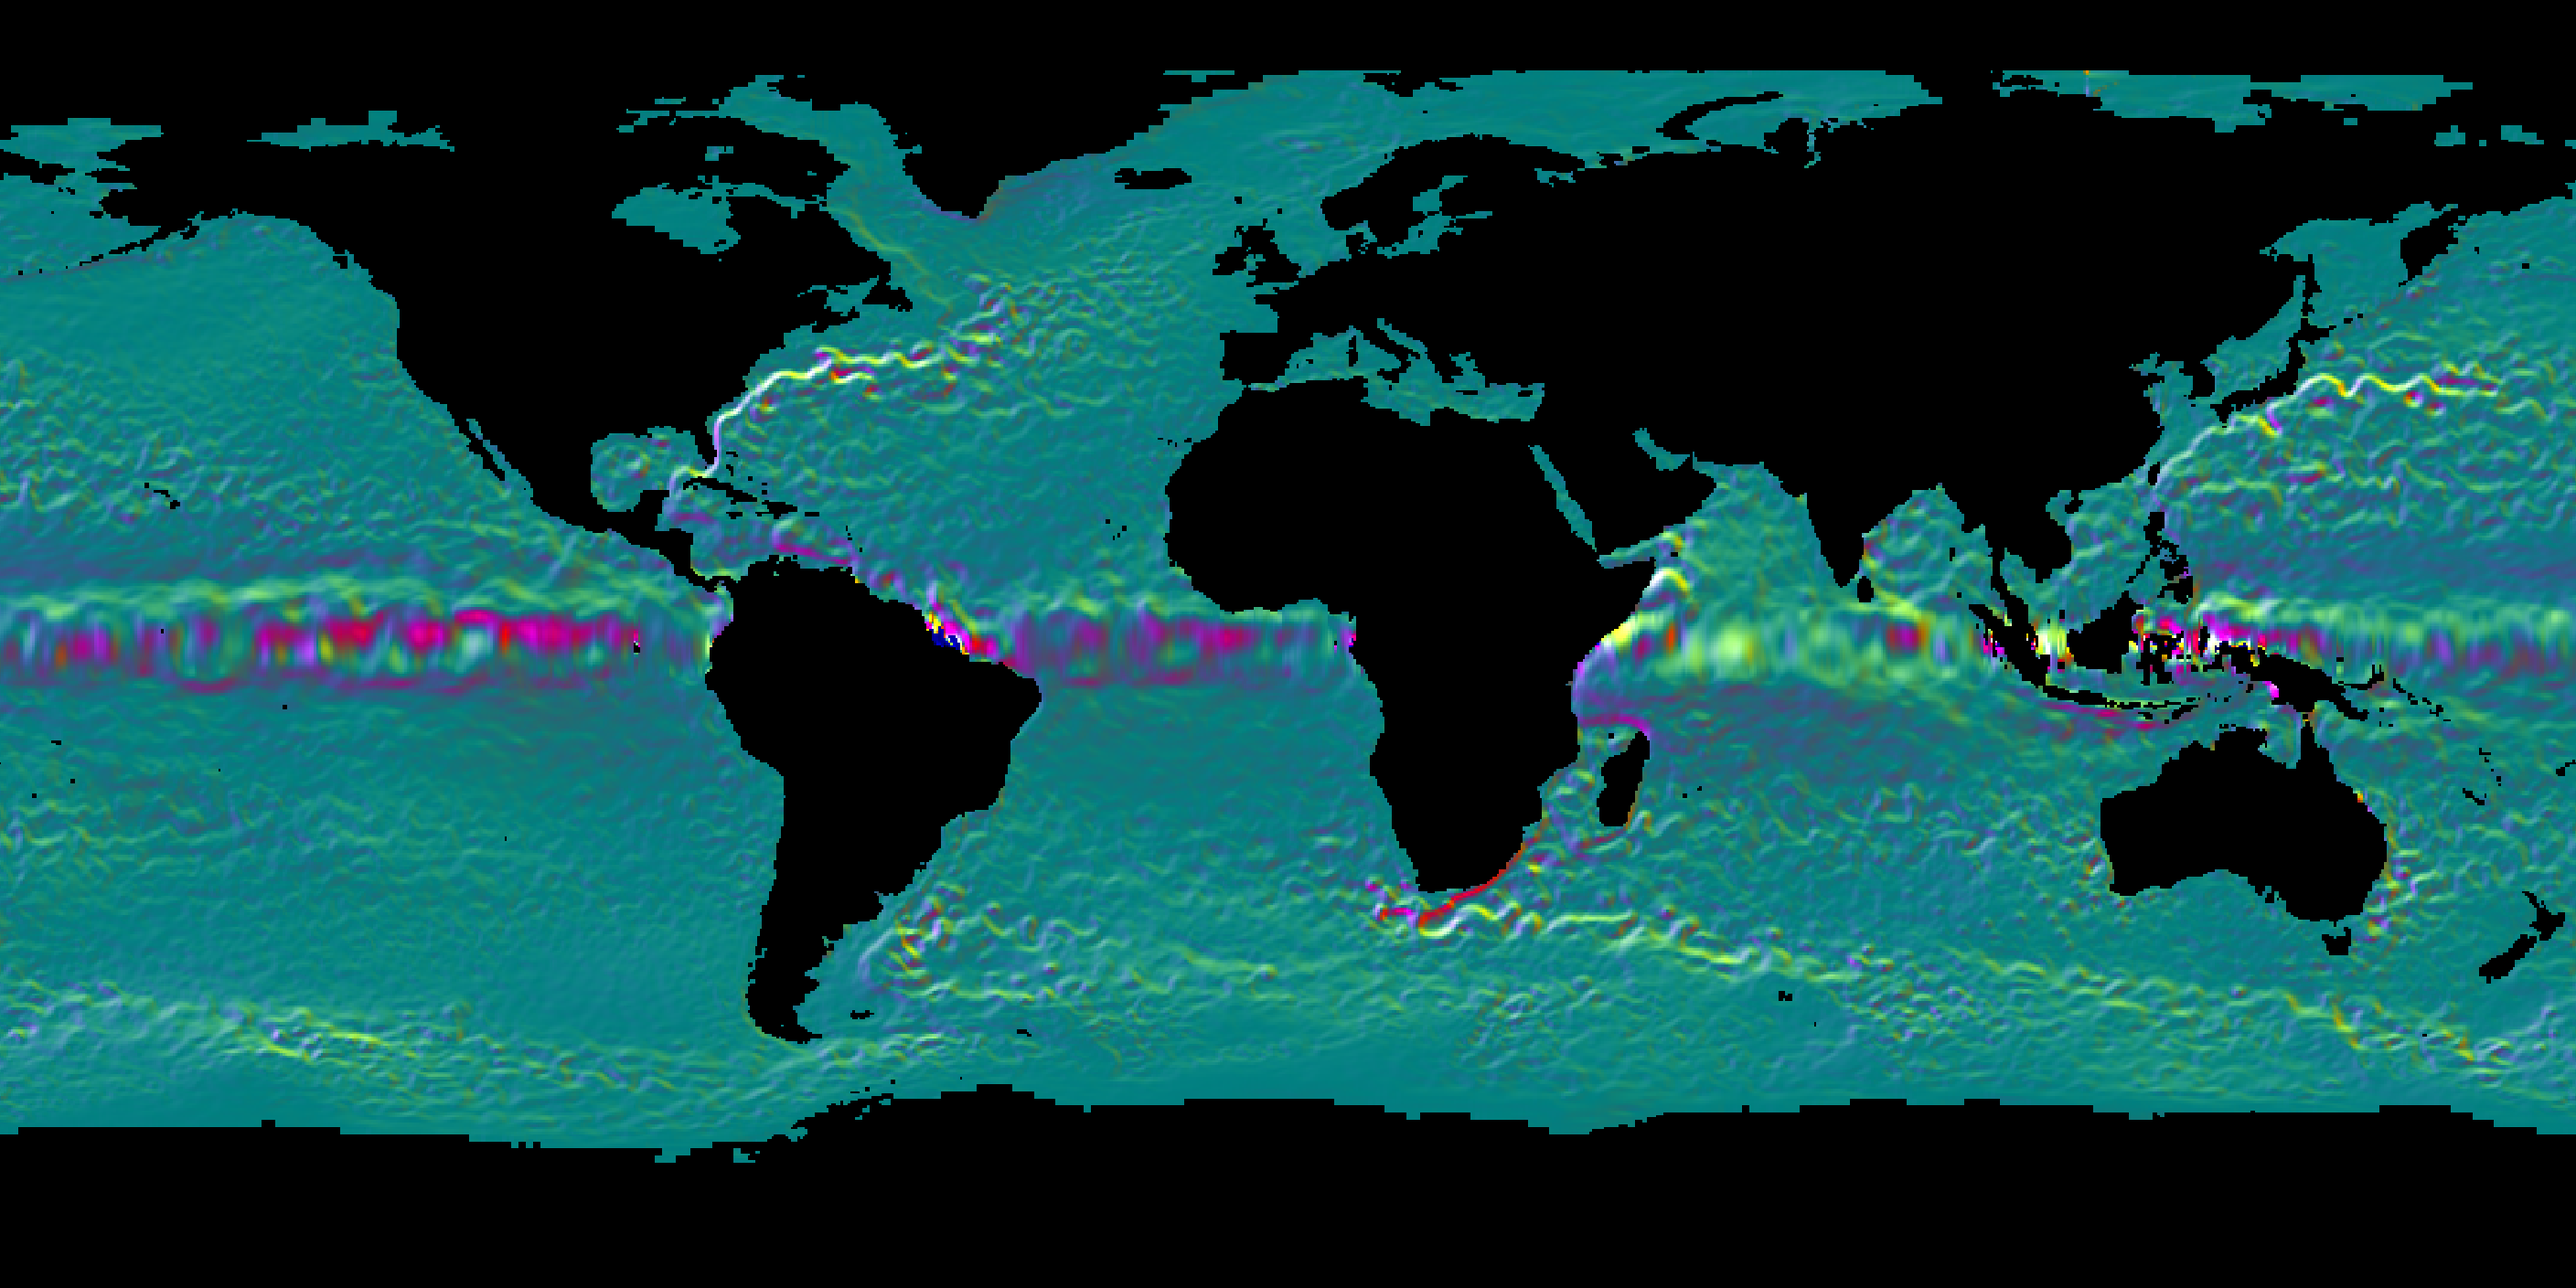
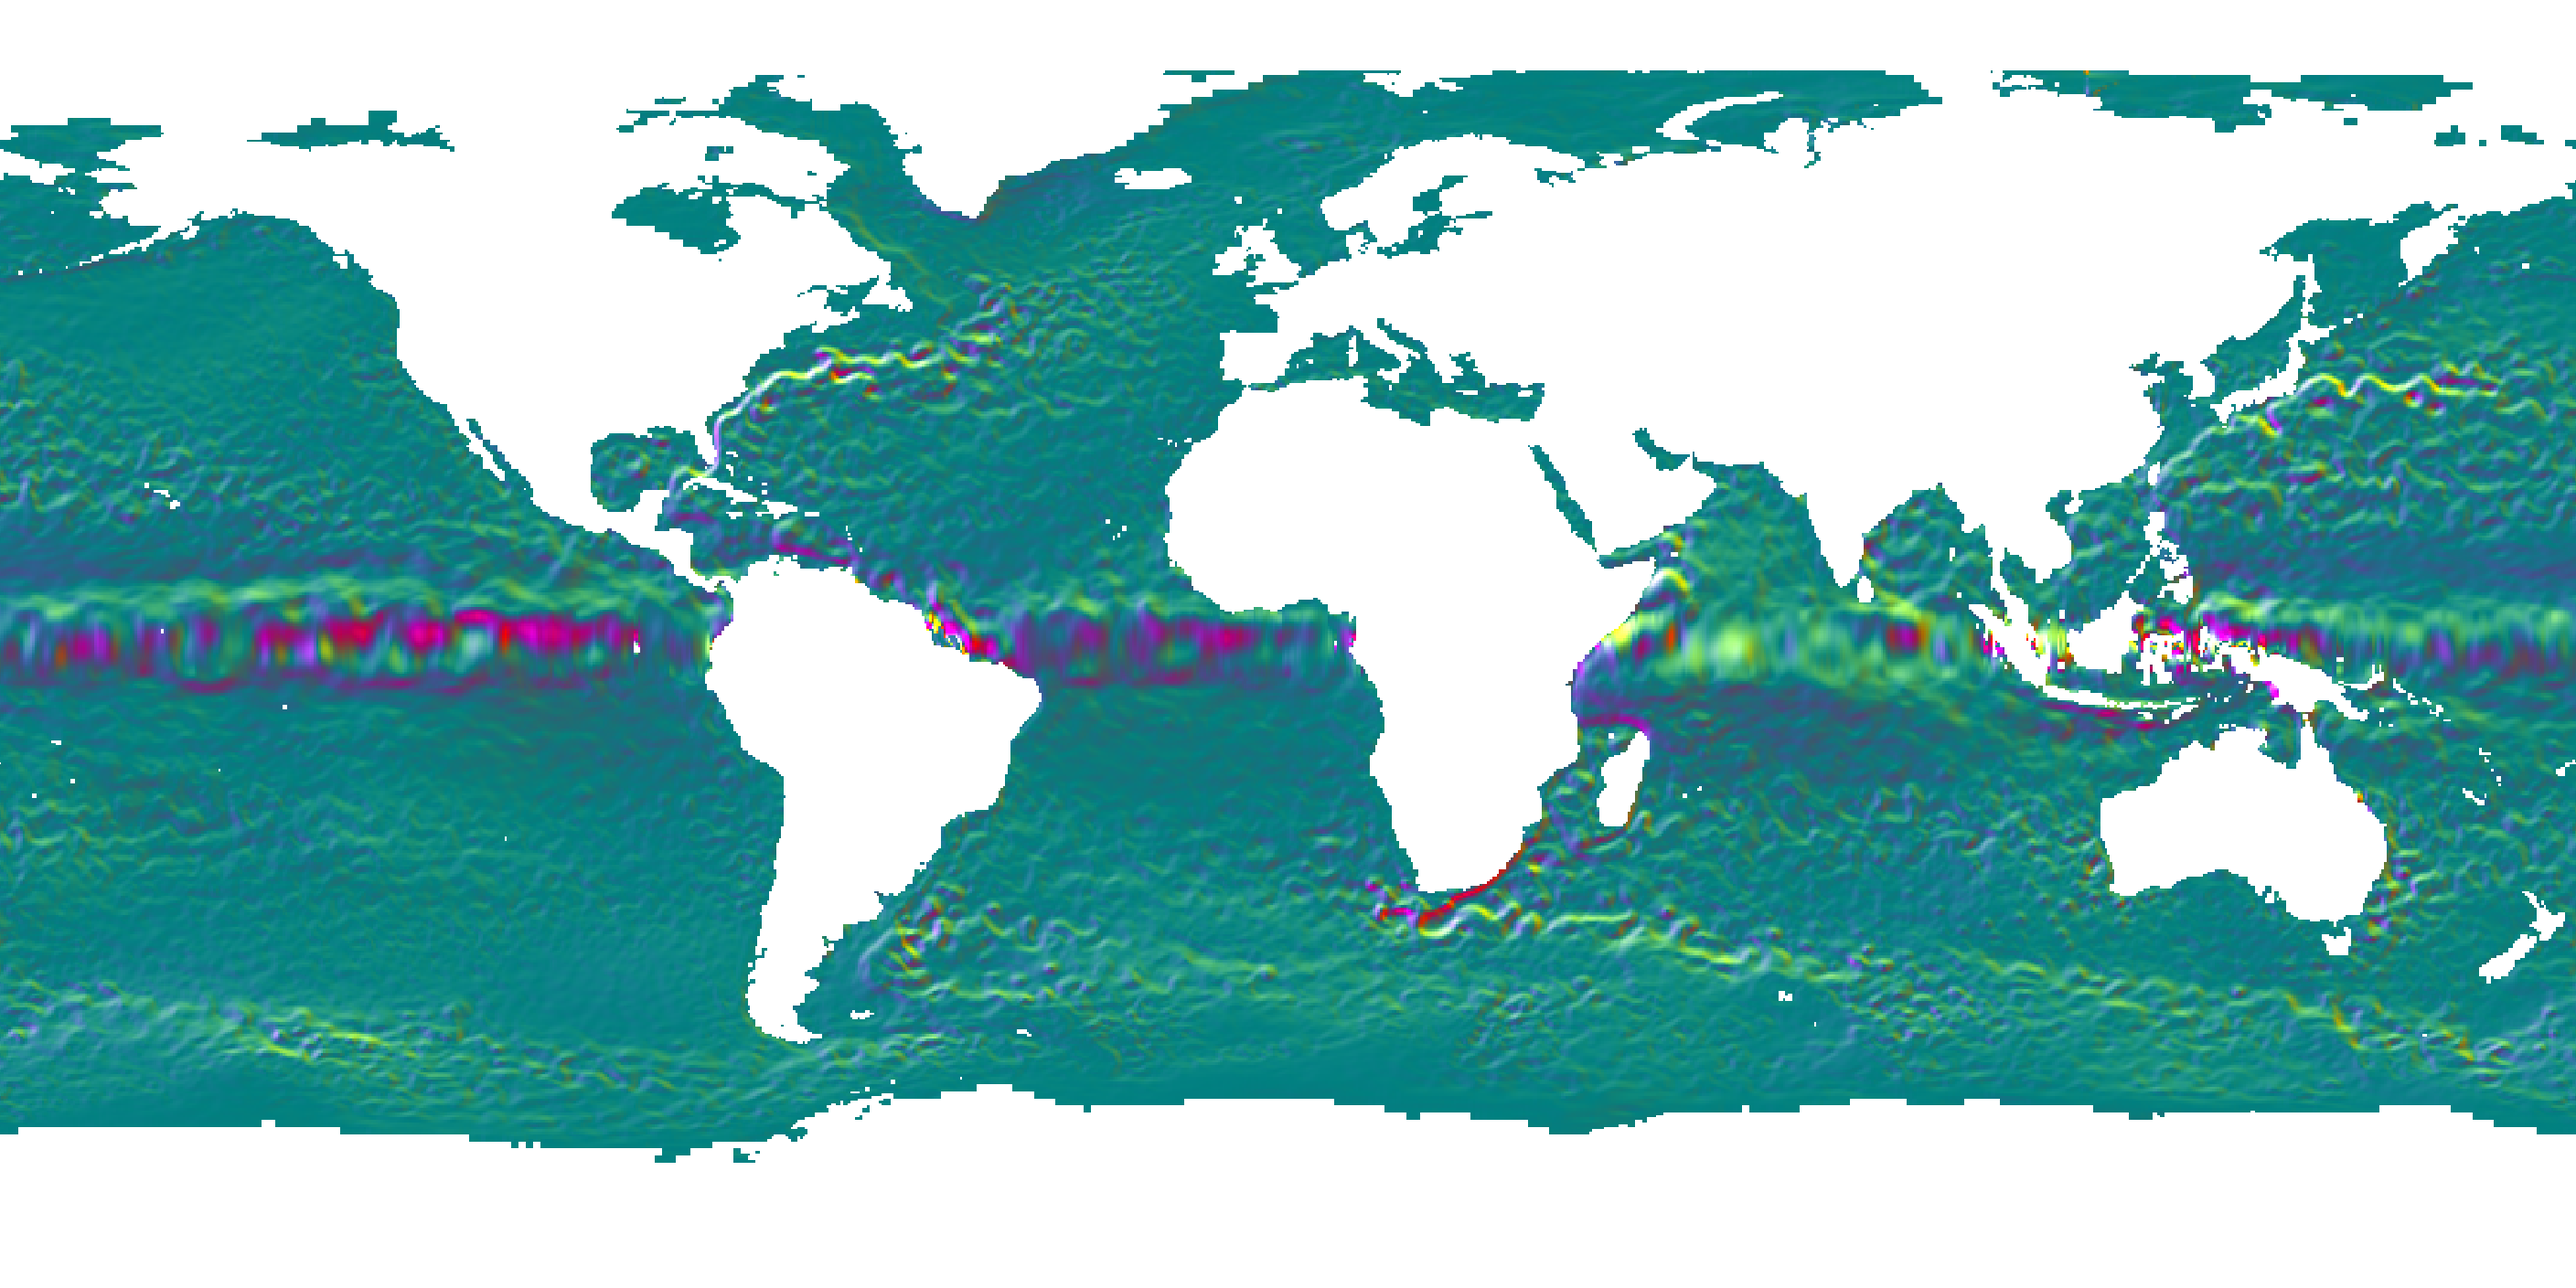
Generate particles where theere are data

diff --git a/src/particles-gl.js b/src/particles-gl.js
@@ -7,6 +7,7 @@ import { createParticlesBuffer, createParticlesIndexBuffer, createParticlesProgr
 import { createCopyProgram, drawCopy } from './shaders/copy.js';
 import { createImageCanvas } from './create-image-canvas.js';
 import { getPositionValues } from './get-position-values.js';
+import { hasValues } from './has-values.js';
 
 /** @typedef {import('./webgl-common.js').WebGLProgramWrapper} WebGLProgramWrapper */
 /** @typedef {import('./webgl-common.js').WebGLBufferWrapper} WebGLBufferWrapper */
@@ -216,10 +217,14 @@ export function particlesGl(gl, config) {
 
     /**
      * @param {[number, number]} position
-     * @return {[number, number]}
+     * @return {[number, number] | undefined}
      */
     function getPositionVector(position) {
         const values = getPositionValues(sourceCtx, position);
+        if (!hasValues(values)) {
+            return;
+        }
+
         /** @type [number, number] */
         const vector = [
             values[1] / 255 * (config.bounds[1] - config.bounds[0]) + config.bounds[0],
@@ -231,10 +236,14 @@ export function particlesGl(gl, config) {
 
     /**
      * @param {[number, number]} position
-     * @return {number}
+     * @return {number | undefined}
      */
     function getPositionBearing(position) {
         const vector = getPositionVector(position);
+        if (!vector) {
+            return;
+        }
+
         const bearing = (Math.atan2(vector[0], vector[1]) * 180 / Math.PI + 360) % 360;
 
         return bearing;

diff --git a/docs/config.js b/docs/config.js
@@ -109,12 +109,16 @@ const particlesLayerConfigs = new Map([
         bounds: [-128, 127],
         count: 1024,
         speedFactor: 0.33,
+        fadeOpacity: 0.95,
+        dropAge: 50,
     }],
     ['oscar/currents', {
         imagePath: `${basepath}/oscar/currents/${date}.png`,
         bounds: [-1, 1],
         count: 1024,
-        speedFactor: 5,
+        speedFactor: 10,
+        fadeOpacity: 0.99,
+        dropAge: 100,
     }],
 ]);
 
@@ -268,6 +272,7 @@ export function initGui(config, update) {
             config.particles[key] = particlesLayerConfig[key];
         });
 
+        gui.updateDisplay();
         update();
     });
     particles.add(config.particles, 'count', 0, 2 ** 16 - 1, 1).onFinishChange(update);
@@ -275,7 +280,7 @@ export function initGui(config, update) {
     particles.addColor(config.particles, 'color');
     particles.add(config.particles, 'opacity', 0, 1, 0.01);
     particles.add(config.particles, 'fadeOpacity', 0.9, 1, 0.001);
-    particles.add(config.particles, 'speedFactor', 0.05, 5, 0.01);
+    particles.add(config.particles, 'speedFactor', 0.05, 10, 0.01);
     particles.add(config.particles, 'dropAge', 1, 60 * 10, 1);
     particles.add(config.particles, 'retina').onChange(update);
     particles.open();

diff --git a/src/overlay-gl.js b/src/overlay-gl.js
@@ -3,6 +3,7 @@ import { colorRampCanvas } from './color-ramp.js';
 import { createOverlayProgram, drawOverlay } from './shaders/overlay.js';
 import { createImageCanvas } from './create-image-canvas.js';
 import { getPositionValues } from './get-position-values.js';
+import { hasValues } from './has-values.js';
 
 /** @typedef {import('./webgl-common.js').WebGLProgramWrapper} WebGLProgramWrapper */
 /** @typedef {import('./webgl-common.js').WebGLBufferWrapper} WebGLBufferWrapper */
@@ -103,10 +104,14 @@ export function overlayGl(gl, config) {
 
     /**
      * @param {[number, number]} position
-     * @return {number}
+     * @return {number | undefined}
      */
     function getPositionValue(position) {
         const values = getPositionValues(sourceCtx, position);
+        if (!hasValues(values)) {
+            return;
+        }
+
         const value = values[0] / 255 * (config.bounds[1] - config.bounds[0]) + config.bounds[0];
 
         return value;

diff --git a/docs/mapbox.html b/docs/mapbox.html
@@ -149,9 +149,9 @@ window.addEventListener('DOMContentLoaded', async () => {
                 Mouse:<br>
                 Position: ${round(position.lng)}, ${round(position.lat)}<br>
                 Position (geographic): ${round(geographicPosition[0])}, ${round(geographicPosition[1])}<br>
-                Overlay Value: ${round(overlayValue)}<br>
-                Particles Vector: ${round(particlesVector[0])}, ${round(particlesVector[1])}<br>
-                Particles Bearing: ${Math.round(particlesBearing)}
+                Overlay Value: ${typeof overlayValue !== 'undefined' ? round(overlayValue) : 'n/a'}<br>
+                Particles Vector: ${typeof particlesVector !== 'undefined' ? `${round(particlesVector[0])}, ${round(particlesVector[1])}` : 'n/a'}<br>
+                Particles Bearing: ${typeof particlesBearing !== 'undefined' ? Math.round(particlesBearing) : 'n/a'}
             `;
         });
     });

diff --git a/src/has-values.js b/src/has-values.js
@@ -1,0 +1,7 @@
+/**
+ * @param {Uint8ClampedArray} values
+ * @return {boolean}
+ */
+export function hasValues(values) {
+    return values[3] !== 0;
+}
